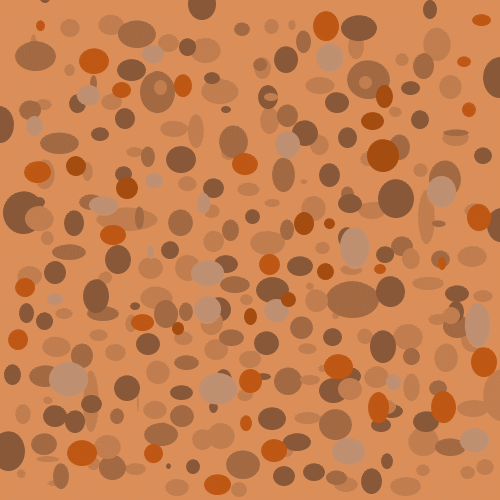
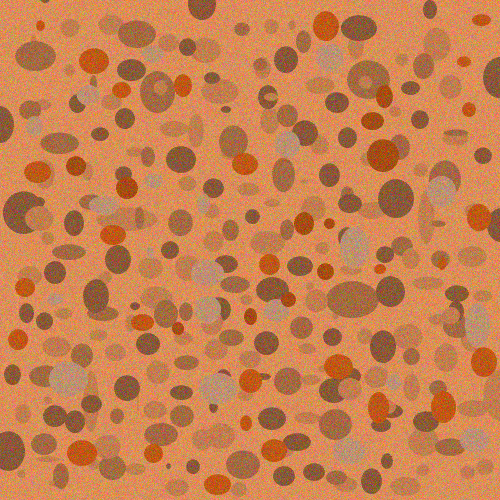
more rocks in res

diff --git a/src/librarys/TextureLibrary.java b/src/librarys/TextureLibrary.java
@@ -9,7 +9,7 @@ public class TextureLibrary {
 	public TextureLibrary(Loader loader){
 		TextureLibrary.tiles=new ArrayList<Integer>();
 		tiles.add(loader.loadTexture("tiles/Blank"));
-		tiles.add(loader.loadTexture("tiles/Dirt"));
+		tiles.add(loader.loadTexture("tiles/Dirt2"));
 		
 	}
 //Space
